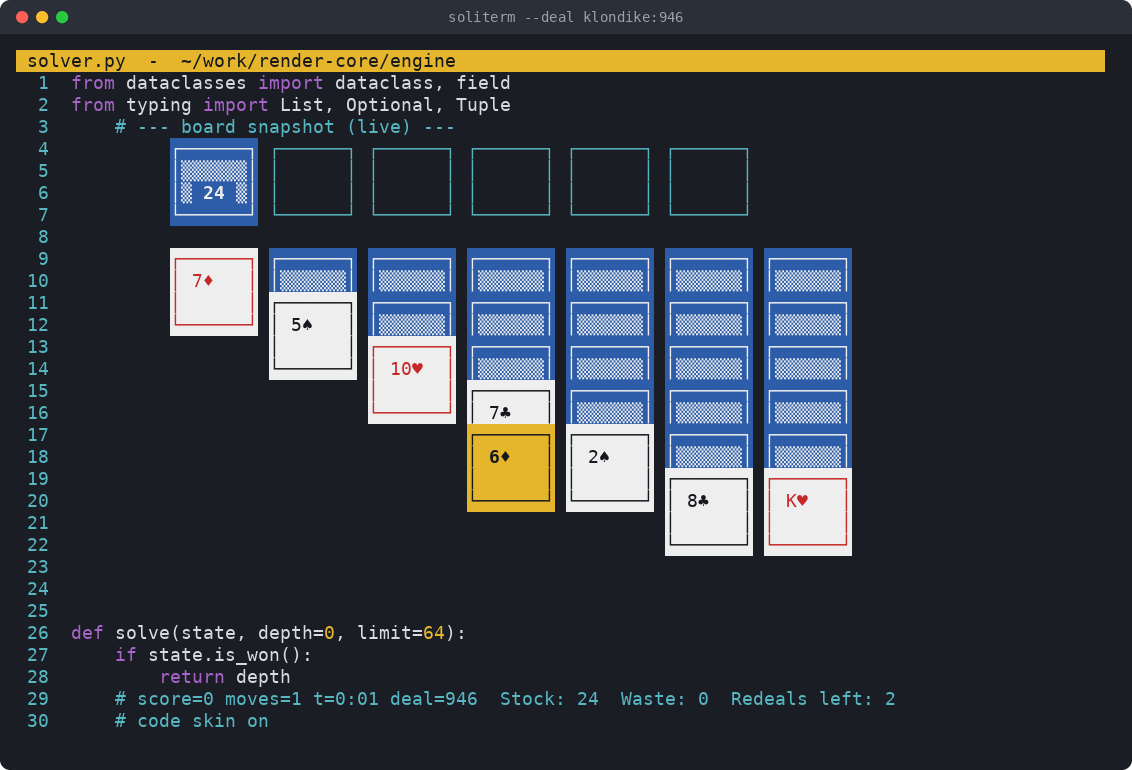
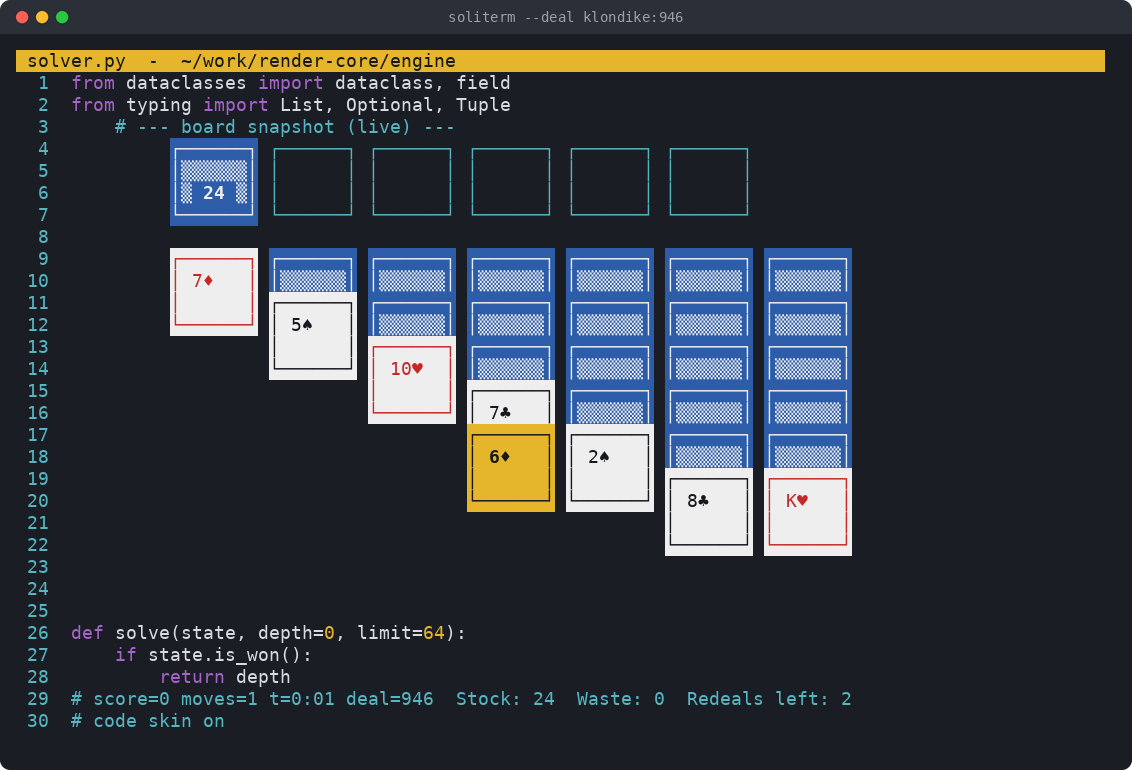
Draw the win and code skin pictures again
The win banner has kept a row for how the game stood on its deal since
that line came in, and its footer says y copies the share code, but the
win picture still showed the old banner. The code skin's status
comments had also moved two columns since its picture was drawn, and
now sit at the start of the comment line. The alt text of each now says
what's in it.

Changed region(s): [[0.2783, 0.9039, 0.773, 0.9351], [0.0618, 0.9039, 0.2473, 0.9662]]

diff --git a/README.md b/README.md
@@ -97,9 +97,9 @@ These and the recording at the top are all of a terminal
 | --- | --- |
 | ![FreeCell deal 617 after one move: eight columns of face-up cards under four empty free cells and four foundations, with the hint "Move Q♥ onto K♠" on the bottom line.](https://raw.githubusercontent.com/bwenstar/soliterm/main/docs/img/freecell.png) | ![Two-suit Spider deal 7 after one move, an A♥ onto a 2♥: ten columns of face-down cards with a card face up on each, two on the fifth, the stock holding 50 cards, and the hint "Move J♥ onto Q♥".](https://raw.githubusercontent.com/bwenstar/soliterm/main/docs/img/spider.png) |
 | **The code skin** | **Triple Peaks, eight cards into a run** |
-| ![Klondike drawn inside what looks like a Python file called solver.py, with line numbers down the left and the score and the time written as a comment.](https://raw.githubusercontent.com/bwenstar/soliterm/main/docs/img/code-skin.png) | ![Triple Peaks deal 108: three overlapping peaks of cards, a waste fanned out from a run of eight, and the hint "Move 6♥ onto 7♦".](https://raw.githubusercontent.com/bwenstar/soliterm/main/docs/img/triple-peaks.png) |
+| ![Klondike deal 946 after one move, drawn inside what looks like a Python file called solver.py: line numbers down the left, a few imports and the start of a solve function around the cards, and the status line, from the score to the redeals left, written as a comment under them.](https://raw.githubusercontent.com/bwenstar/soliterm/main/docs/img/code-skin.png) | ![Triple Peaks deal 108: three overlapping peaks of cards, a waste fanned out from a run of eight, and the hint "Move 6♥ onto 7♦".](https://raw.githubusercontent.com/bwenstar/soliterm/main/docs/img/triple-peaks.png) |
 | **Yukon in the contrast theme** | **A win** |
-| ![Yukon deal 5 in the contrast theme: white cards with strong red and black suits, the cursor in yellow on the 3♥, the 4♣ it would go onto in cyan, and the hint "Move 3♥ onto 4♣".](https://raw.githubusercontent.com/bwenstar/soliterm/main/docs/img/contrast.png) | ![The win screen after Golf deal 216, with the time, the score, 48 moves, the share code golf:216, and the choices Replay this deal, New deal and Back to menu, each with the key that picks it.](https://raw.githubusercontent.com/bwenstar/soliterm/main/docs/img/win.png) |
+| ![Yukon deal 5 in the contrast theme: white cards with strong red and black suits, the cursor in yellow on the 3♥, the 4♣ it would go onto in cyan, and the hint "Move 3♥ onto 4♣".](https://raw.githubusercontent.com/bwenstar/soliterm/main/docs/img/contrast.png) | ![The win screen after Golf deal 216: the time, the score, 48 moves, the share code golf:216, one win in one game and the best time, then the choices Replay this deal, New deal and Back to menu, each with the key that picks it, and a line saying y copies the share code.](https://raw.githubusercontent.com/bwenstar/soliterm/main/docs/img/win.png) |
 
 ## The games
 
